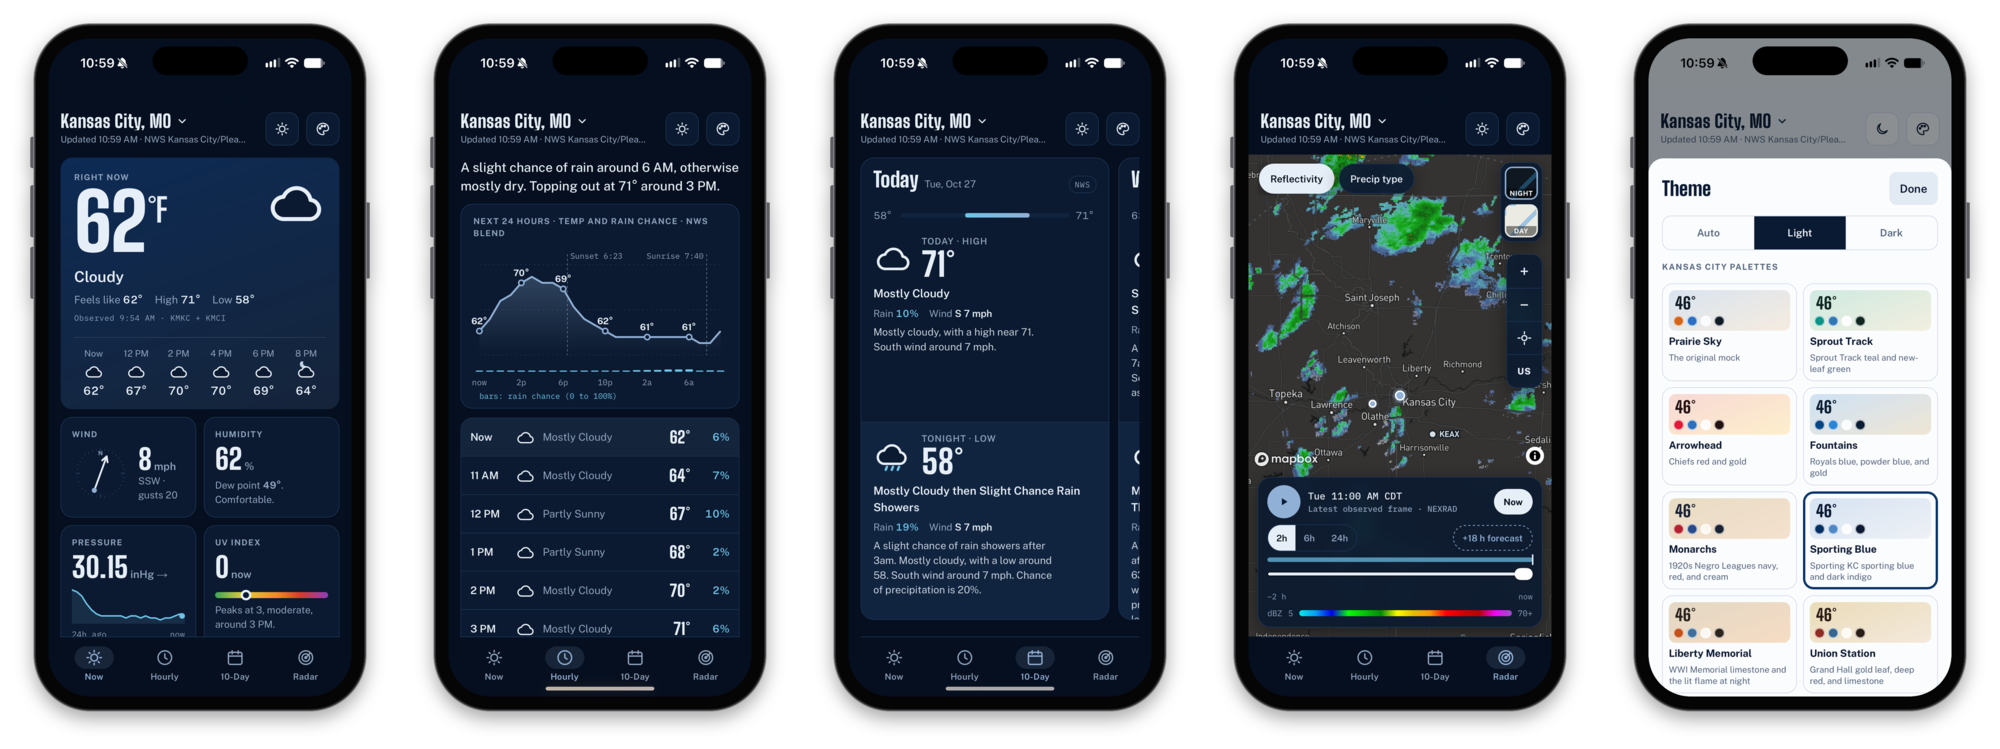
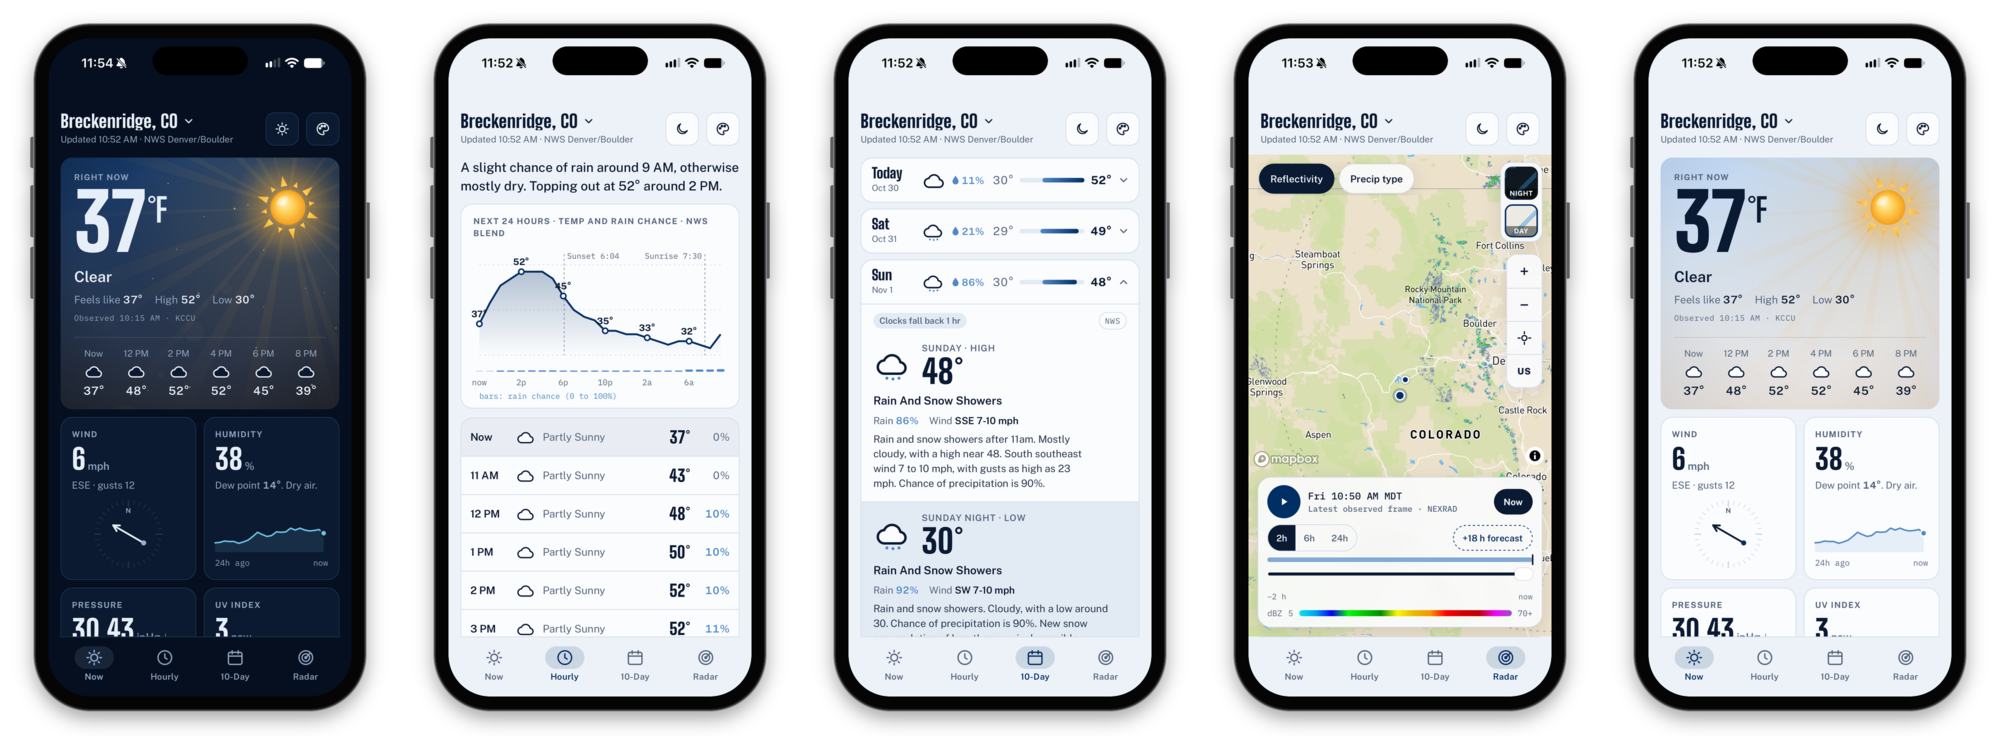
README: refresh screenshots with the new hero, 10-Day accordion, and light mode
Claude-Session: https://claude.ai/code/session_011GNsoVBo7KNKmiBtvbmh75

diff --git a/README.md b/README.md
@@ -12,7 +12,7 @@ Service forecasts). Elsewhere it falls back to model-only forecasts, without sta
 or radar.
 
 <p align="center">
-  <img src="docs/screenshots/fairweather-screens.png" alt="Fairweather on iPhone: Now, Hourly, 10-Day, Radar, and the theme picker">
+  <img src="docs/screenshots/fairweather-screens.png" alt="Fairweather on iPhone: Now in dark mode, Hourly, 10-Day, Radar, and Now in light mode">
 </p>
 
 ## Features
